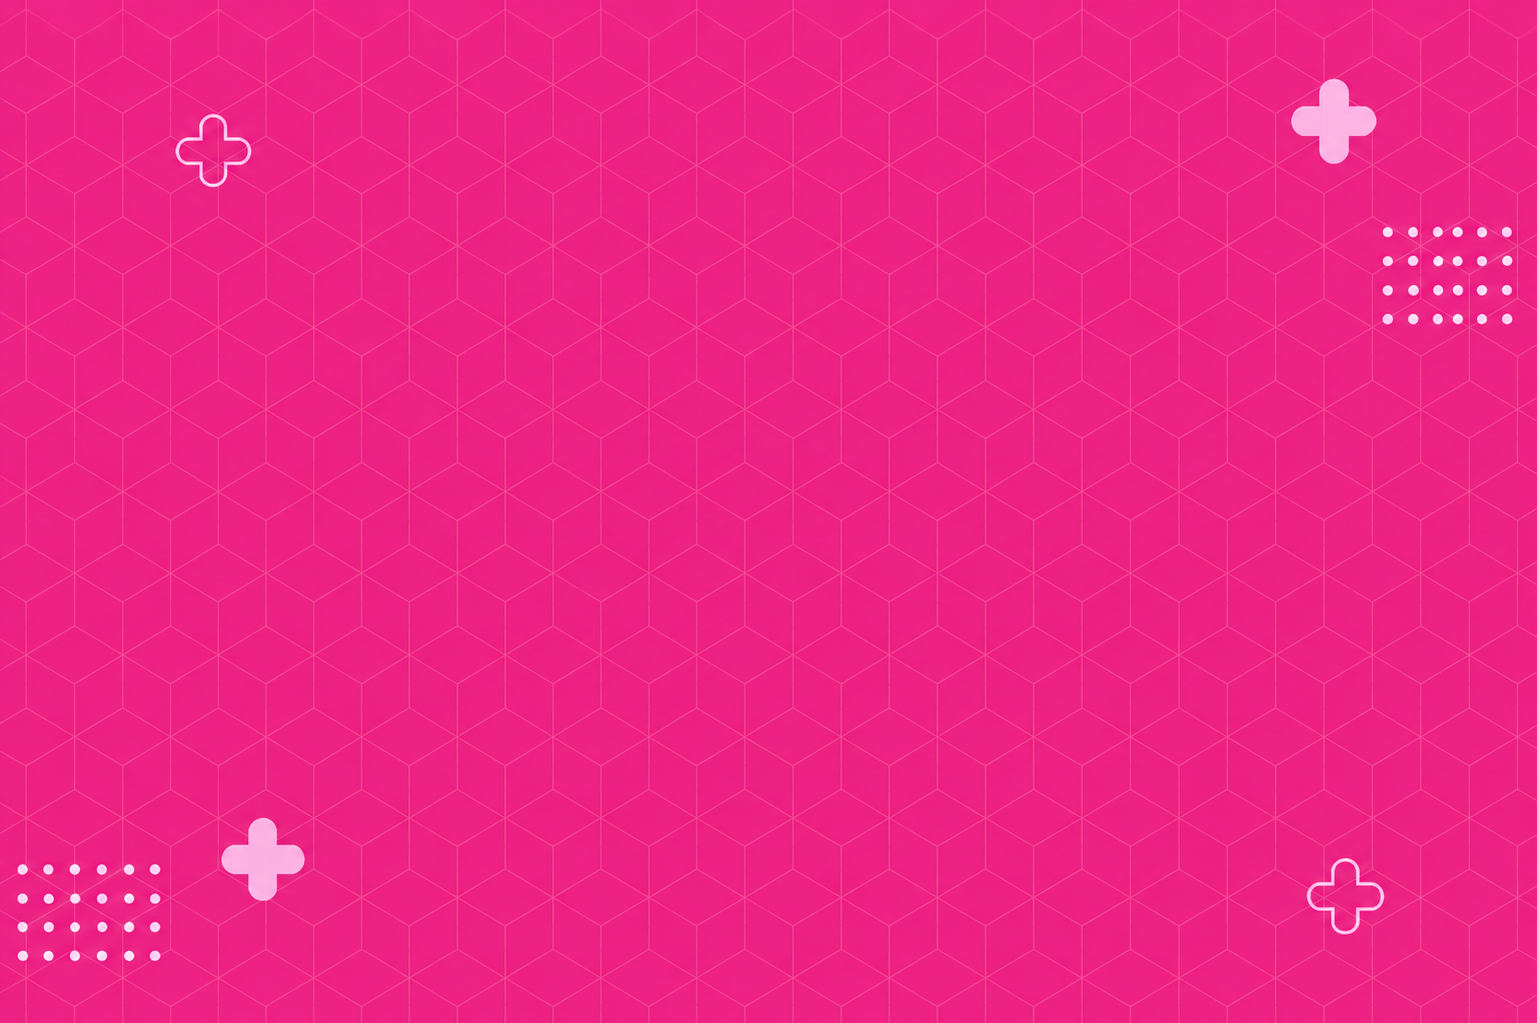
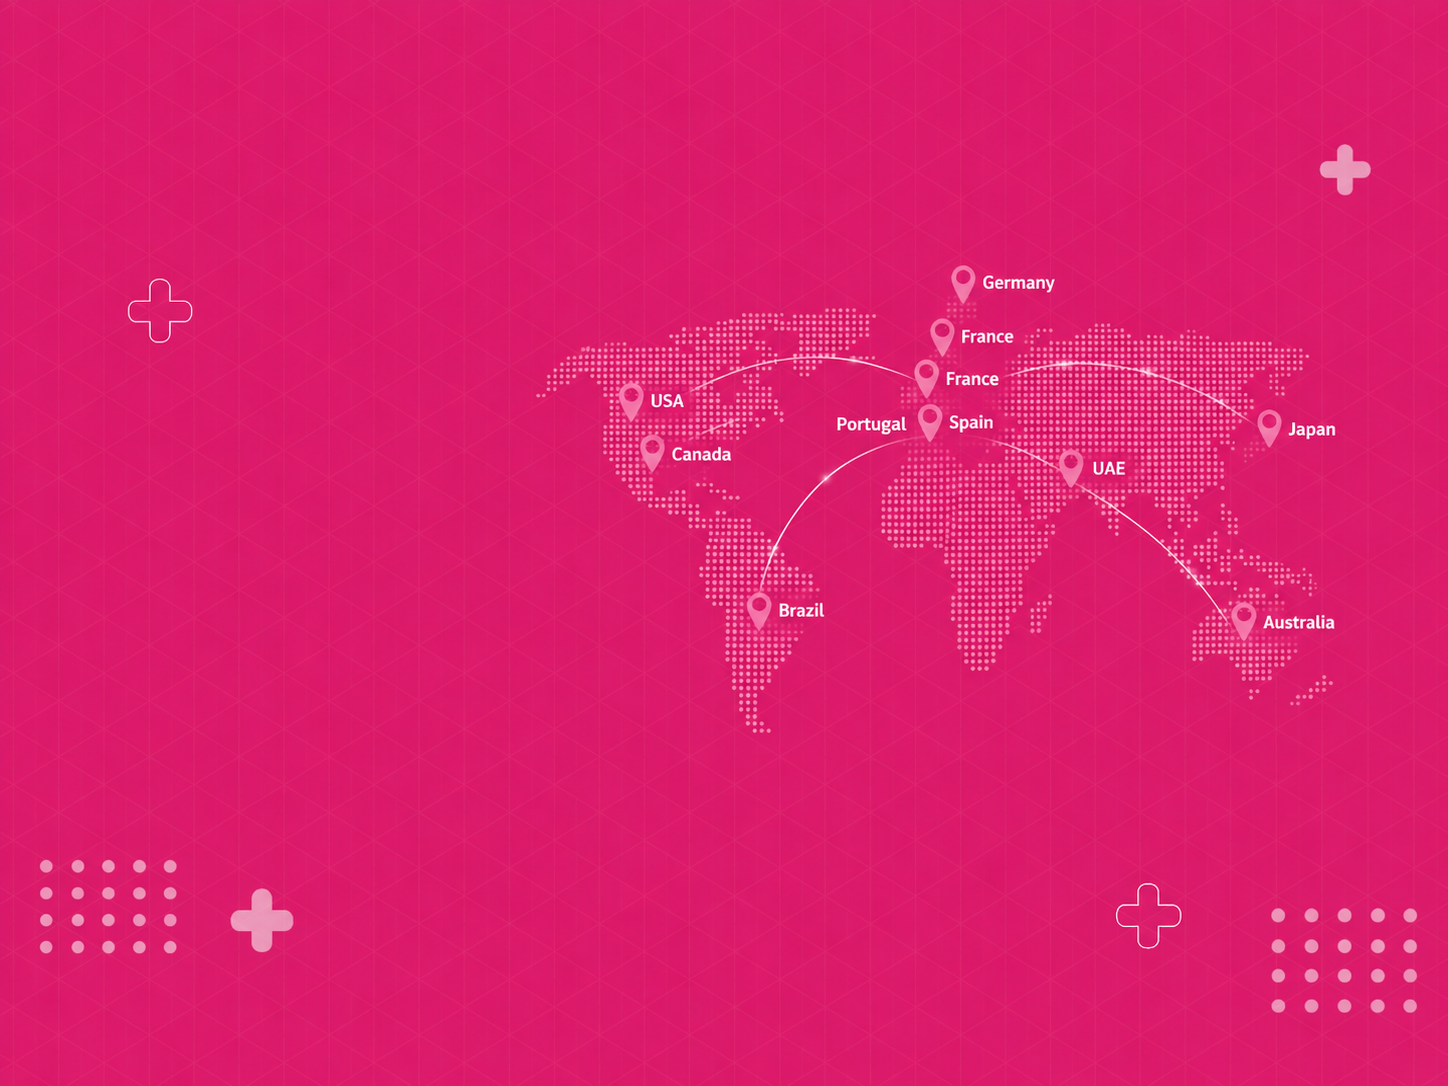
Ajustar padding do footer e atualizar imagem de fundo

diff --git a/assets/css/componentes/footer.css b/assets/css/componentes/footer.css
@@ -4,7 +4,7 @@
     background: url('../../imagens/backgrounds/backgroundFooter.png') no-repeat center;
     background-size: cover;
     color: var(--color-white);
-    padding: 90px 0 28px;
+    padding: 40px 0 28px;
 }
 
 .footer-container-principal {
